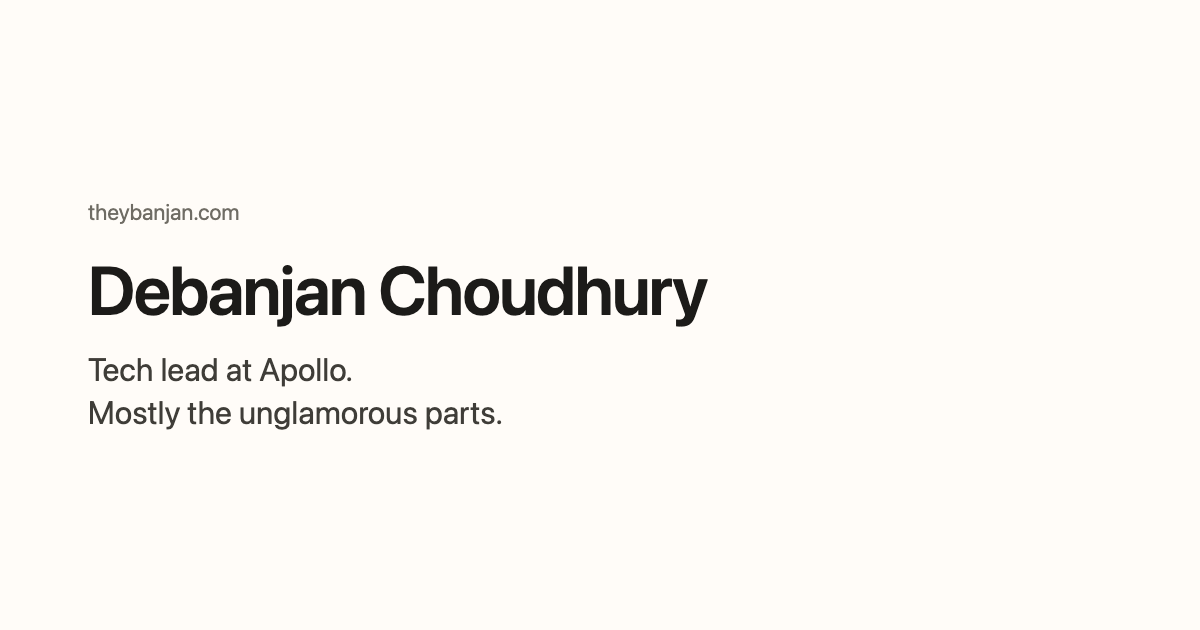
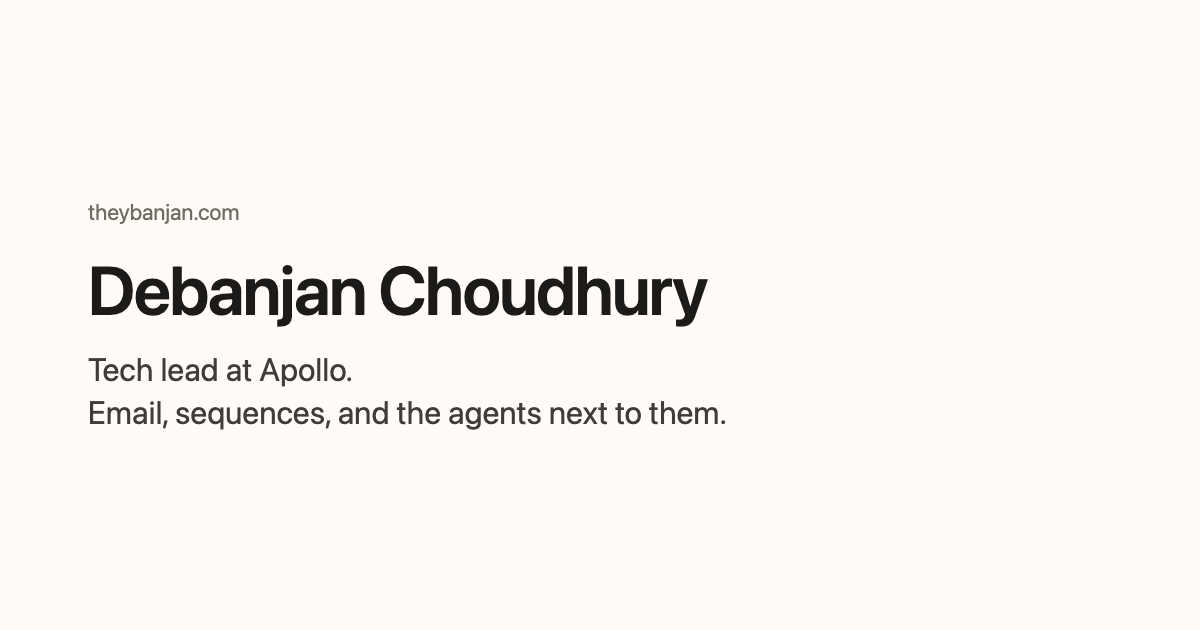
Drop the sad profile line and lead with the work itself.
The intro and the share image now say email, sequences, and the agents next to them.

Changed region(s): [[0.0617, 0.6333, 0.6167, 0.6937]]

diff --git a/dist/index.html b/dist/index.html
@@ -6,10 +6,10 @@
           document.documentElement.setAttribute('data-theme', theme);
         } catch (e) {}
       })();
-    </script><meta name="astro-view-transitions-enabled" content="true"><meta name="astro-view-transitions-fallback" content="animate"><script type="module" src="/_astro/ClientRouter.astro_astro_type_script_index_0_lang.CGSFs2wN.js"></script><!-- Favicon --><link rel="icon" type="image/png" sizes="32x32" href="/favicon-32x32.png"><link rel="icon" type="image/png" sizes="16x16" href="/favicon-16x16.png"><link rel="icon" type="image/x-icon" href="/favicon.ico"><link rel="apple-touch-icon" sizes="180x180" href="/apple-touch-icon.png"><link rel="manifest" href="/site.webmanifest"><!-- SEO --><title>Debanjan Choudhury</title><meta name="description" content="Debanjan Choudhury, tech lead at Apollo. Eight years in backends, mostly the unglamorous parts. Email deliverability, sequences, and the Claude connector. Long writing here. Short takes on X."><link rel="canonical" href="https://theybanjan.com/"><link rel="alternate" type="application/rss+xml" title="Debanjan - Writing" href="https://theybanjan.com/rss.xml"><!-- Open Graph --><meta property="og:type" content="website"><meta property="og:url" content="https://theybanjan.com/"><meta property="og:title" content="Debanjan Choudhury"><meta property="og:description" content="Debanjan Choudhury, tech lead at Apollo. Eight years in backends, mostly the unglamorous parts. Email deliverability, sequences, and the Claude connector. Long writing here. Short takes on X."><meta property="og:image" content="https://theybanjan.com/og-image.png"><meta property="og:site_name" content="Debanjan"><!-- Twitter --><meta name="twitter:card" content="summary_large_image"><meta name="twitter:site" content="@theybanjan"><meta name="twitter:creator" content="@theybanjan"><meta name="twitter:title" content="Debanjan Choudhury"><meta name="twitter:description" content="Debanjan Choudhury, tech lead at Apollo. Eight years in backends, mostly the unglamorous parts. Email deliverability, sequences, and the Claude connector. Long writing here. Short takes on X."><meta name="twitter:image" content="https://theybanjan.com/og-image.png"><!-- Structured data (Person schema for search + answer engines) --><script type="application/ld+json">{"@context":"https://schema.org","@type":"Person","name":"Debanjan Choudhury","alternateName":"Debanjan","url":"https://theybanjan.com","jobTitle":"Tech Lead","worksFor":{"@type":"Organization","name":"Apollo.io"},"knowsAbout":["Backend systems","Distributed systems","Email deliverability","AI agents","Reliability engineering","Observability"],"sameAs":["https://github.com/debanjanc01","https://www.linkedin.com/in/debanjanc01","https://x.com/theybanjan"]}</script><meta name="generator" content="Astro v5.13.5"><link rel="stylesheet" href="/_astro/about.CEntQTnj.css">
+    </script><meta name="astro-view-transitions-enabled" content="true"><meta name="astro-view-transitions-fallback" content="animate"><script type="module" src="/_astro/ClientRouter.astro_astro_type_script_index_0_lang.CGSFs2wN.js"></script><!-- Favicon --><link rel="icon" type="image/png" sizes="32x32" href="/favicon-32x32.png"><link rel="icon" type="image/png" sizes="16x16" href="/favicon-16x16.png"><link rel="icon" type="image/x-icon" href="/favicon.ico"><link rel="apple-touch-icon" sizes="180x180" href="/apple-touch-icon.png"><link rel="manifest" href="/site.webmanifest"><!-- SEO --><title>Debanjan Choudhury</title><meta name="description" content="Debanjan Choudhury, tech lead at Apollo. Email, sequences, and the agents next to them, including the Claude connector. Long writing here. Short takes on X."><link rel="canonical" href="https://theybanjan.com/"><link rel="alternate" type="application/rss+xml" title="Debanjan - Writing" href="https://theybanjan.com/rss.xml"><!-- Open Graph --><meta property="og:type" content="website"><meta property="og:url" content="https://theybanjan.com/"><meta property="og:title" content="Debanjan Choudhury"><meta property="og:description" content="Debanjan Choudhury, tech lead at Apollo. Email, sequences, and the agents next to them, including the Claude connector. Long writing here. Short takes on X."><meta property="og:image" content="https://theybanjan.com/og-image.png"><meta property="og:site_name" content="Debanjan"><!-- Twitter --><meta name="twitter:card" content="summary_large_image"><meta name="twitter:site" content="@theybanjan"><meta name="twitter:creator" content="@theybanjan"><meta name="twitter:title" content="Debanjan Choudhury"><meta name="twitter:description" content="Debanjan Choudhury, tech lead at Apollo. Email, sequences, and the agents next to them, including the Claude connector. Long writing here. Short takes on X."><meta name="twitter:image" content="https://theybanjan.com/og-image.png"><!-- Structured data (Person schema for search + answer engines) --><script type="application/ld+json">{"@context":"https://schema.org","@type":"Person","name":"Debanjan Choudhury","alternateName":"Debanjan","url":"https://theybanjan.com","jobTitle":"Tech Lead","worksFor":{"@type":"Organization","name":"Apollo.io"},"knowsAbout":["Backend systems","Distributed systems","Email deliverability","AI agents","Reliability engineering","Observability"],"sameAs":["https://github.com/debanjanc01","https://www.linkedin.com/in/debanjanc01","https://x.com/theybanjan"]}</script><meta name="generator" content="Astro v5.13.5"><link rel="stylesheet" href="/_astro/about.CEntQTnj.css">
 <style>.intro[data-astro-cid-j7pv25f6]{font-size:1.125rem;color:var(--ink);max-width:36em;margin:0 0 10px}.intro-quiet[data-astro-cid-j7pv25f6]{color:var(--ink-muted);max-width:36em;margin:0}
 </style><script type="module" src="/_astro/page.VIllvXJD.js"></script></head> <body> <header class="site-header"> <a class="brand" href="/">Debanjan</a> <nav class="nav"> <a href="/writing"> writing </a><a href="/work"> work </a><a href="/timeline"> timeline </a><a href="/about"> about </a><a href="/now"> now </a><a href="/contact"> contact </a> </nav> <button class="theme-toggle" id="theme-toggle" aria-label="Toggle dark mode" type="button"> <svg id="sun-icon" viewBox="0 0 24 24" fill="none" stroke="currentColor" stroke-width="2" stroke-linecap="round" stroke-linejoin="round" style="display:none"> <circle cx="12" cy="12" r="5"></circle> <line x1="12" y1="1" x2="12" y2="3"></line><line x1="12" y1="21" x2="12" y2="23"></line> <line x1="4.22" y1="4.22" x2="5.64" y2="5.64"></line><line x1="18.36" y1="18.36" x2="19.78" y2="19.78"></line> <line x1="1" y1="12" x2="3" y2="12"></line><line x1="21" y1="12" x2="23" y2="12"></line> <line x1="4.22" y1="19.78" x2="5.64" y2="18.36"></line><line x1="18.36" y1="5.64" x2="19.78" y2="4.22"></line> </svg> <svg id="moon-icon" viewBox="0 0 24 24" fill="none" stroke="currentColor" stroke-width="2" stroke-linecap="round" stroke-linejoin="round"> <path d="M21 12.79A9 9 0 1 1 11.21 3 7 7 0 0 0 21 12.79z"></path> </svg> </button> </header> <main class="container">  <h1 data-astro-cid-j7pv25f6>Debanjan Choudhury</h1> <p class="intro" data-astro-cid-j7pv25f6>
-Tech lead at Apollo. Eight years in backends, mostly the unglamorous parts: the trace after an agent ships, the edge case on the second run, the repo a model is only as good as. The day job under that is email deliverability and sequences. I helped ship the Claude connector, so a chat can search people, enrich them, and add them to a sequence.
+Tech lead at Apollo. I work where email, sequences, and agents meet. I helped ship the Claude connector, so a chat can search people, enrich them, and add them to a sequence. The part I keep coming back to is what a model does to a repo once you let it ship.
 </p> <p class="intro-quiet" data-astro-cid-j7pv25f6>
 This site is the long version. Short takes and brain dumps are on
 <a href="https://x.com/theybanjan" target="_blank" rel="noreferrer" data-astro-cid-j7pv25f6>X</a>.
